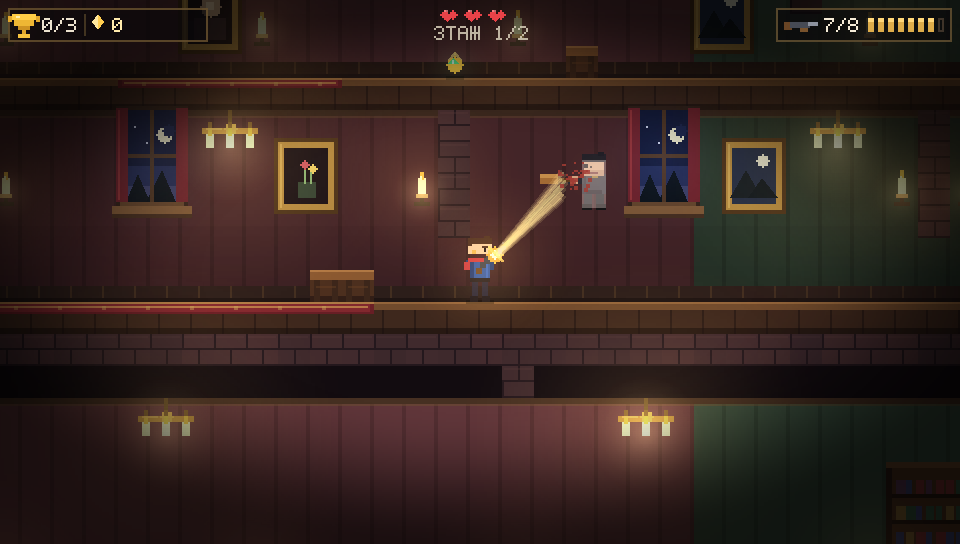
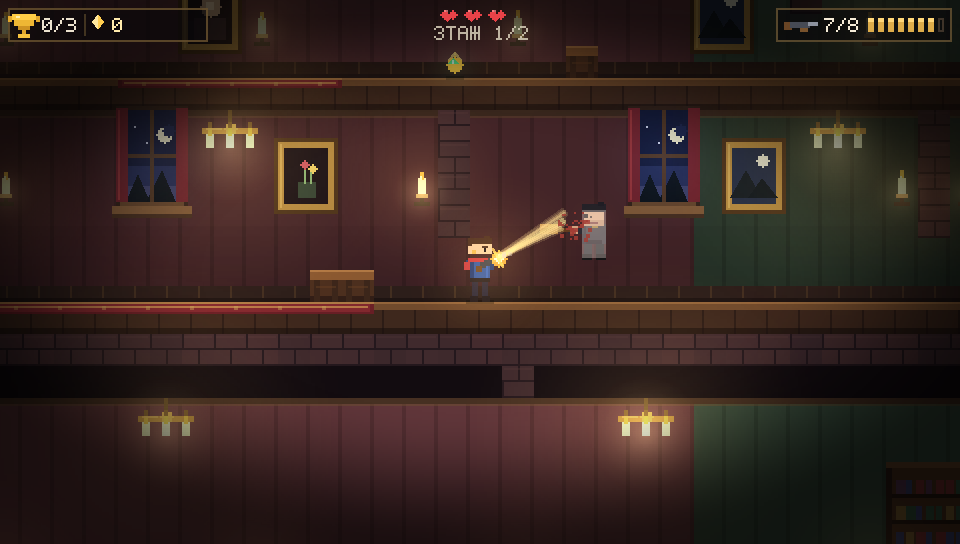
Диагональный прицел 30 вместо 45 градусов

Changed region(s): [[0.5, 0.2812, 0.6562, 0.5]]

diff --git a/src/main.cpp b/src/main.cpp
@@ -39,6 +39,7 @@ constexpr float RELOAD_WAIT    = 1.00f;  // секунда полной непо
 constexpr float SHOT_RANGE     = 640.0f; // выстрел на всю длину экрана
 constexpr int   PELLET_COUNT   = 7;      // дробин в залпе
 constexpr float SHOT_SPREAD    = 0.032f; // шаг разброса: крайние дроби уходят на ~±5.5°
+constexpr float AIM_DIAG       = 0.5235987756f; // 30°: наклон прицела вверх/вниз
 constexpr float RECOIL_KICK    = 180.0f; // отдача толкает Коляна назад
 constexpr int   START_LIVES    = 3;
 constexpr float BULLET_SPEED  = 69.2f * 1.2f;  // +20% к прежним 69.2 px/s
@@ -1504,9 +1505,9 @@ void Game::fireShot(const Input& in)
     gunKick = 0.14f;
 
     // Мгновенное попадание: дробь летит лучами на всю длину экрана.
-    // Прицел вверх/вниз поворачивает дробовик на 45 градусов,
+    // Прицел вверх/вниз поворачивает дробовик на 30 градусов,
     // а каждая дробина уходит под своим углом внутри конуса разброса.
-    float aimAng = player.lookY * 0.7853981634f;
+    float aimAng = player.lookY * AIM_DIAG;
     float dirX = player.facing * std::cos(aimAng);
     float dirY = std::sin(aimAng);
     float shoulderX = player.x + player.w * 0.5f + player.facing * 1.0f;
@@ -3510,7 +3511,7 @@ void Game::drawGuy(const Body& b, const Palette& p)
     SDL_RenderFillRect(ren, &brow);
 
     // дробовик в руках: ствол поворачивается по диагонали вместе со взглядом
-    float aimAng = b.lookY * 0.7853981634f;
+    float aimAng = b.lookY * AIM_DIAG;
     float ax = b.facing * std::cos(aimAng);
     float ay = std::sin(aimAng);
     float kick = (gunKick > 0.0f) ? (gunKick / 0.14f) * 1.5f : 0.0f;
@@ -3616,7 +3617,7 @@ void Game::drawGlows()
     addLight(player.x + player.w * 0.5f, player.y + player.h * 0.6f,
              46.0f, SDL_Color{255, 200, 140, 255}, 24.0f);
     if (muzzle > 0.0f) {
-        float aimAng = player.lookY * 0.7853981634f;
+        float aimAng = player.lookY * AIM_DIAG;
         float dirX = player.facing * std::cos(aimAng);
         float dirY = std::sin(aimAng);
         float tipX = player.x + player.w * 0.5f + player.facing * 1.0f + dirX * 9.0f;
@@ -4771,7 +4772,7 @@ void Game::makeScenarios()
         m.b.w = 14;
         m.b.h = 26;
         m.b.x = player.x + 45.0f;
-        m.b.y = player.y - 45.0f;
+        m.b.y = player.y - 20.0f;
         m.b.facing = -1;
         m.hp = m.maxHp = 20;
         m.homeX = m.b.x;
@@ -5542,7 +5543,7 @@ void Game::runSmoke()
         m.b.w = 14;
         m.b.h = 26;
         m.b.x = player.x + 45.0f;
-        m.b.y = player.y - 45.0f;
+        m.b.y = player.y - 20.0f;
         m.b.facing = -1;
         m.hp = m.maxHp = 20;
         m.homeX = m.b.x;
@@ -5580,7 +5581,7 @@ void Game::runSmoke()
         m.b.w = 14;
         m.b.h = 26;
         m.b.x = player.x + 50.0f;
-        m.b.y = player.y + 50.0f;
+        m.b.y = player.y + 30.0f;
         m.b.facing = -1;
         m.hp = m.maxHp = 20;
         m.homeX = m.b.x;
